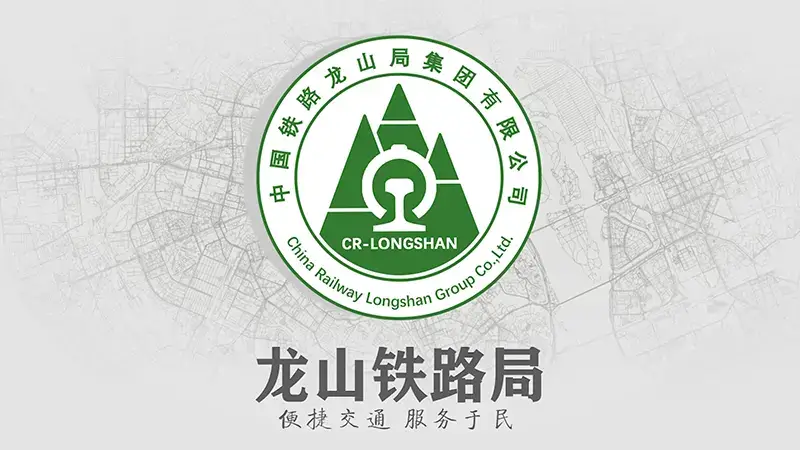
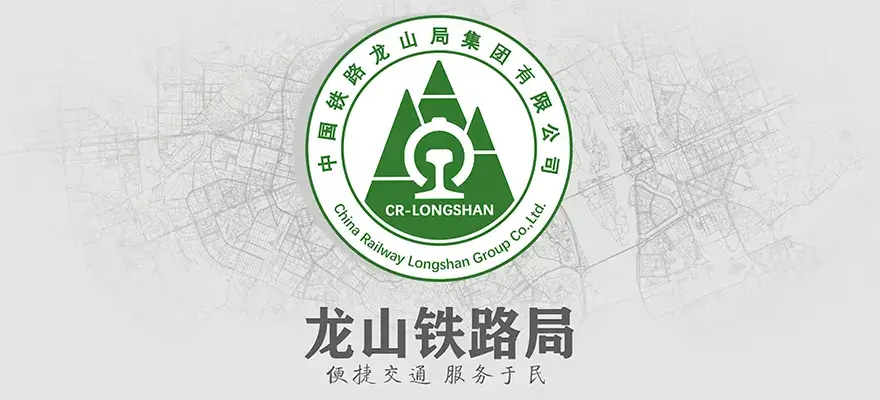
justify pictures

diff --git a/src/pages/HomePage.vue b/src/pages/HomePage.vue
@@ -1,35 +1,37 @@
 <template>
-  <div class="px-0 mx-0 px-md-16 mx-md-16 px-lg-16 mx-lg-16">
-    <v-container>
-      <v-card>
-        <v-img
-            class="white--text align-end"
-            src="@/assets/propaganda.webp"
-        >
-          <div style="opacity: 0.4" class="black">
-            <v-card-title>龙山Craft</v-card-title>
-            <v-card-subtitle>中北人的MC服务器</v-card-subtitle>
-          </div>
-        </v-img>
-        <v-card-text class="text--primary">
-          <p>NUCraft 取自 NUC Craft ，将两个 C 合并而来，意为中北大学的MC服务器</p>
-          <p>服务器依托于中北大学AI+移动互联创新实验室、动漫创新实验室、漫无止境动漫社的良好资源与人员条件，致力于为同学们提供和谐、友爱、高品质的 MC 游戏体验。</p>
-          <p>服务器主线连接有1000Mbps校园网，在校期间，只要是中北大学学生或教职工，均可通过校园网连接至服务器</p>
-          <p>玩家群体面向中北大学学生，无论是红石大佬、建筑大师还是刚入坑的萌新，龙山 Craft 均欢迎你的到来</p>
-        </v-card-text>
-
-        <v-card-actions>
-          <v-btn
-              text
-              color="primary"
-              @click="navigate('/get-started')"
+  <div class="mx-0 mx-lg-16 mx-md-16">
+    <div class="mx-0 mx-md-16 mx-lg-16">
+      <v-container>
+        <v-card>
+          <v-img
+              class="white--text align-end"
+              src="@/assets/propaganda.webp"
           >
-            开始游戏
-          </v-btn>
-        </v-card-actions>
-      </v-card>
-    </v-container>
-    <content-render :content-list="contentList"/>
+            <div style="opacity: 0.4" class="black">
+              <v-card-title>龙山Craft</v-card-title>
+              <v-card-subtitle>中北人的MC服务器</v-card-subtitle>
+            </div>
+          </v-img>
+          <v-card-text class="text--primary">
+            <p>NUCraft 取自 NUC Craft ，将两个 C 合并而来，意为中北大学的MC服务器</p>
+            <p>服务器依托于中北大学AI+移动互联创新实验室、动漫创新实验室、漫无止境动漫社的良好资源与人员条件，致力于为同学们提供和谐、友爱、高品质的 MC 游戏体验。</p>
+            <p>服务器主线连接有1000Mbps校园网，在校期间，只要是中北大学学生或教职工，均可通过校园网连接至服务器</p>
+            <p>玩家群体面向中北大学学生，无论是红石大佬、建筑大师还是刚入坑的萌新，龙山 Craft 均欢迎你的到来</p>
+          </v-card-text>
+
+          <v-card-actions>
+            <v-btn
+                text
+                color="primary"
+                @click="navigate('/get-started')"
+            >
+              开始游戏
+            </v-btn>
+          </v-card-actions>
+        </v-card>
+      </v-container>
+      <content-render :content-list="contentList"/>
+    </div>
   </div>
 </template>
 

diff --git a/src/components/ContentRender.vue b/src/components/ContentRender.vue
@@ -4,14 +4,13 @@
       <v-card>
         <div v-if="item.picture">
           <v-img
-              contain
               class="white--text align-end"
               :src="item.picture.url"
               :max-height="item.picture.maxHeight"
           >
             <div style="opacity: 0.4" class="black">
               <v-card-title class="py-2">
-                {{ item.title }} {{ item.picture.maxHeight }}
+                {{ item.title }}
               </v-card-title>
               <div v-if="item.subtitle">
                 <v-card-subtitle class="py-0">
